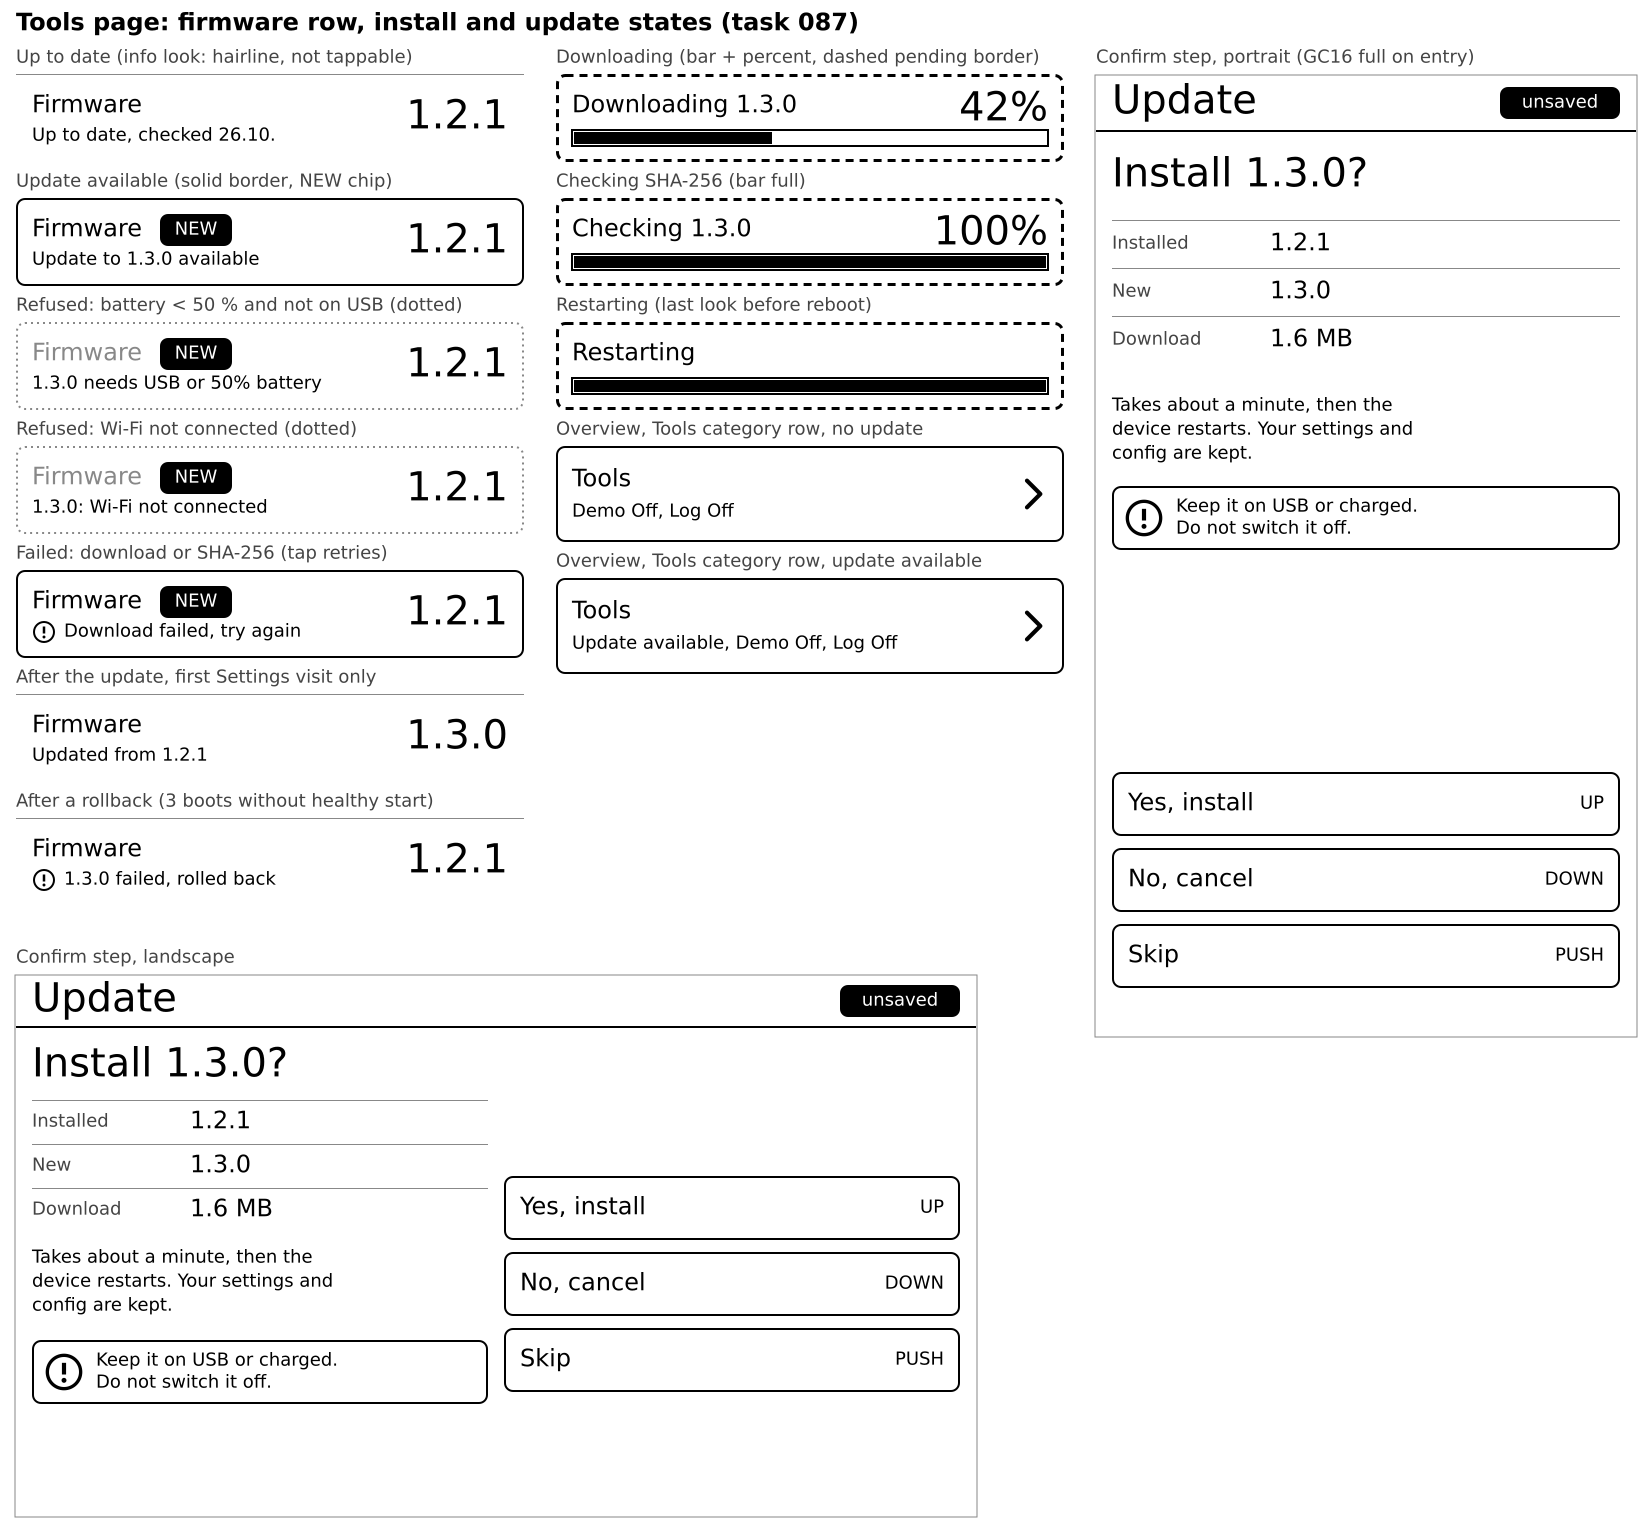
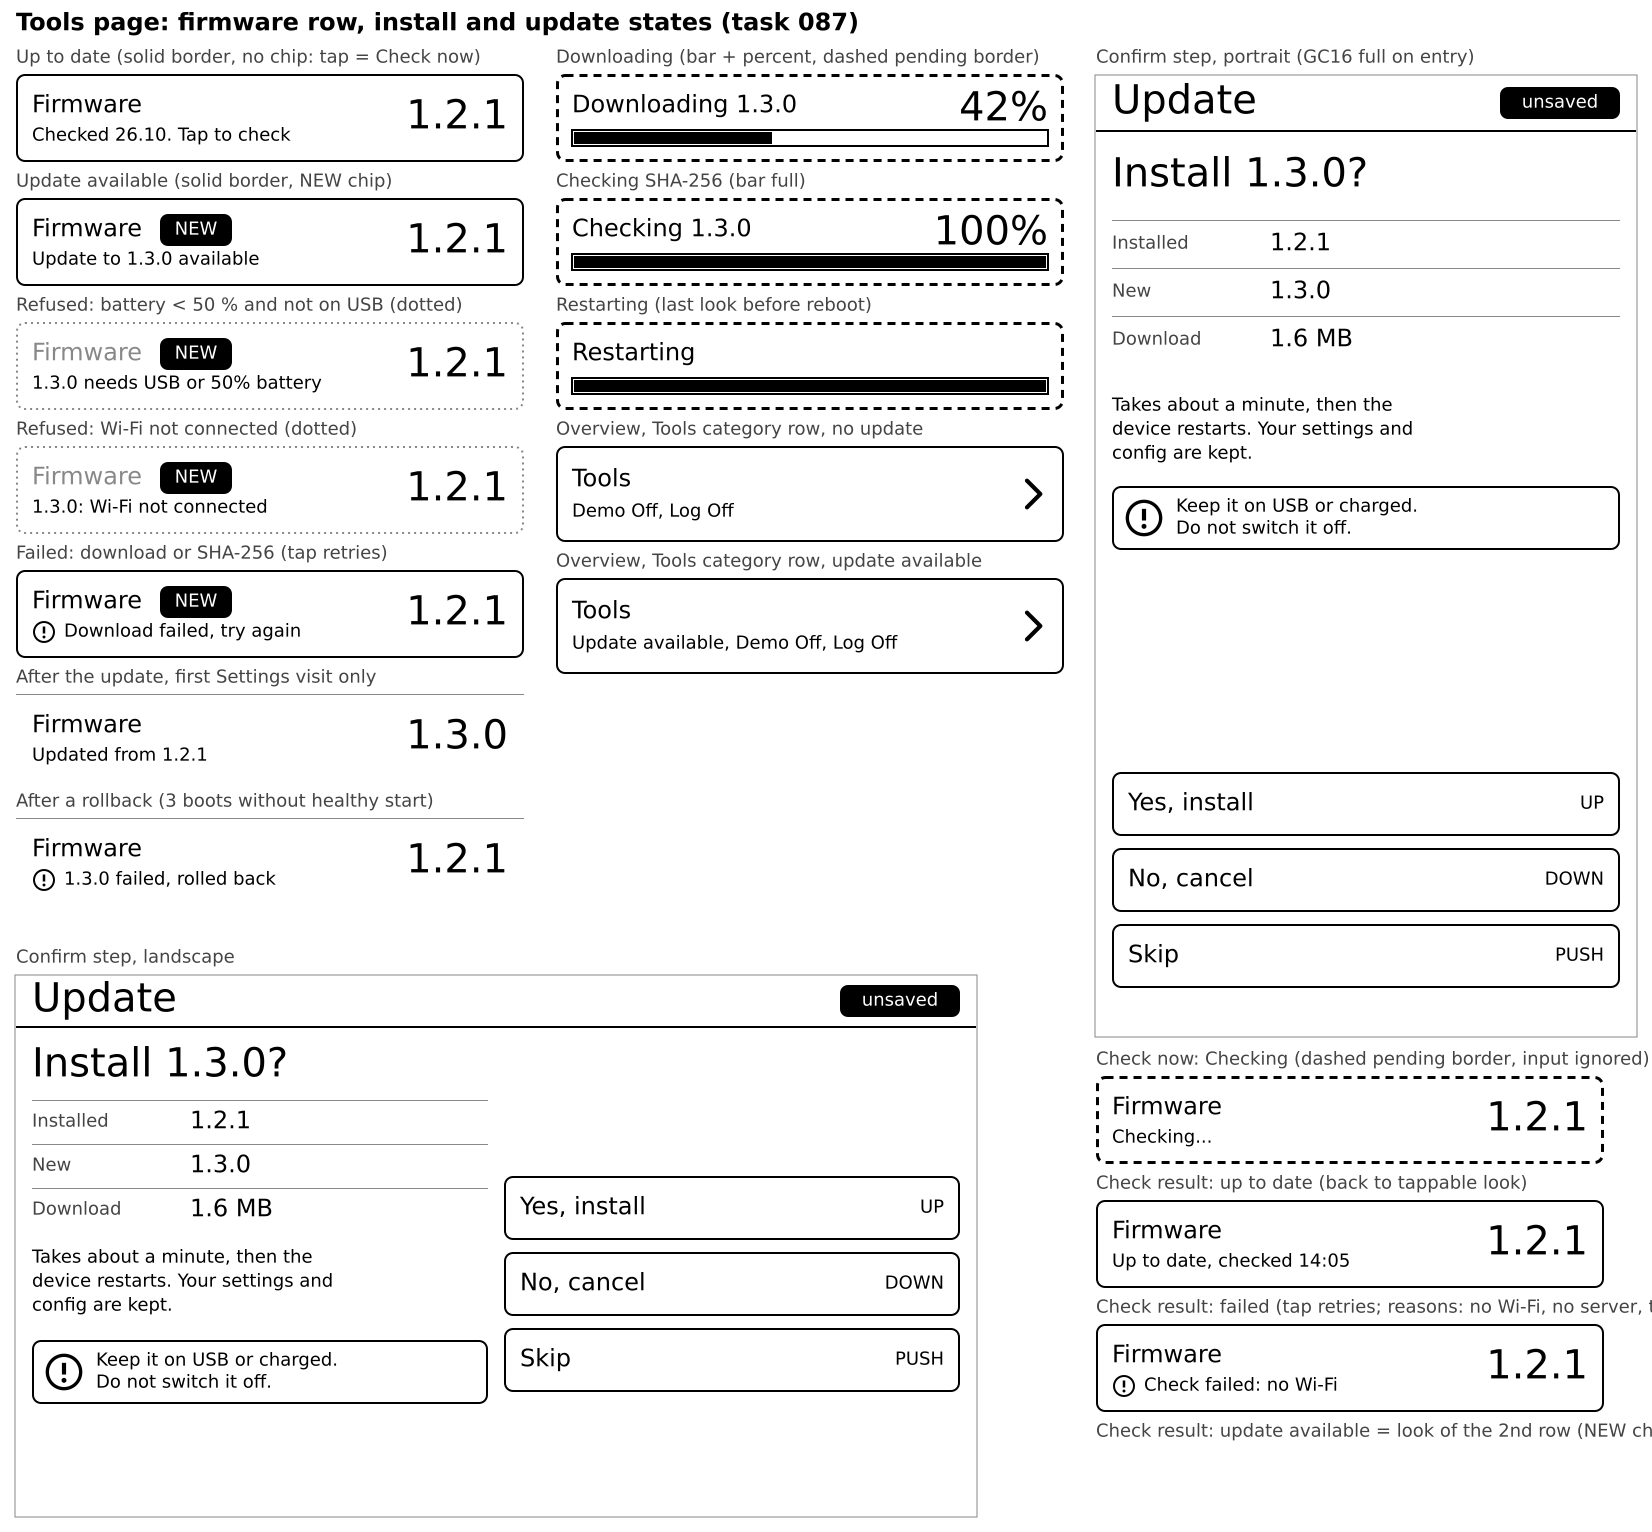
task 087: Check now spec, review fix decisions

Changed region(s): [[0.6483, 0.6749, 1.0, 0.951], [0.0309, 0.0307, 0.2778, 0.092]]

diff --git a/docs/ui/settings.md b/docs/ui/settings.md
@@ -294,7 +294,9 @@ Settings only: nothing on tab screens, no popup. Data: NVS found version / last-
 **Firmware row** (hint-row geometry 3.1, 88 high, not edited, never touches the edit buffer or the `unsaved` chip). Label `Firmware` F24 (x 16, cy 32; OFF grey when refused); value = installed version F40 INK right edge W - 16 cy 44 (F24 if a long version would meet the hint); hint F18 INK x 16 cy 62 (x 48 after an alert icon S 24 at (16, 50)); hint at most about 30 characters. Chip `NEW` row-relative (144, 16, 72, 32), F18 PAPER on INK, radius 8, shown whenever a newer release is known. Row looks (shape carries the state):
 | State | Border | Hint | Tap / focus |
 |-------|--------|------|-------------|
-| Up to date / never checked | none, 1 px OFF top hairline (info look) | `Up to date, checked 26.10.` (same day `14:05`) / `Not checked yet` | ignored, no focus stop |
+| Up to date / never checked | 2 px INK solid, no chip (tappable) | `Checked 26.10. Tap to check` (same day `14:05`) / `Not checked. Tap to check` | starts Check now (below); focus stop |
+| Checking | 3 px dashed INK (pending) | `Checking...` | ignored, no focus stop; other rows and Back also ignore input until the result |
+| Check failed | 2 px INK solid + alert icon | `Check failed: no Wi-Fi` / `no server` / `timeout` | starts Check now again |
 | Update available | 2 px INK solid, chip | `Update to 1.3.0 available` | opens confirm |
 | Refused | 2 px dotted OFF (STYLE 8 unavailable), chip, label OFF | first reason that applies: `1.3.0: leave demo mode first`, `1.3.0: Wi-Fi not connected`, `1.3.0 needs USB or 50% battery` | ignored, no focus stop (the hint is the explanation) |
 | Failed | as Update available + alert icon | `Download failed, try again` / `File damaged, not installed` (SHA-256); old firmware untouched | opens confirm (retry) |
@@ -307,6 +309,8 @@ Overview: Tools row summary gains `Update available, ` first (3.0); no other ove
 **Progress** (the Tools page, nothing else changes; row only). Row border 3 px dashed INK (pending look, STYLE 9). Label F24 cy 32 `Downloading 1.3.0`; value F40 INK right edge, cy 36, `42%`; bar row-relative (16, 56, 476, 16): 2 px INK outline on PAPER, fill INK from x 18, 12 high, width = 472 x percent (shape, no grey). Phases: `Downloading 1.3.0` + percent; `Checking 1.3.0` + `100%` (SHA-256); `Restarting` (no value, bar full) -> reboot. Other rows keep their look but ignore touch and rocker (no Back, no cancel); idle/wake sleep is suspended. Redraw: value + bar region row-relative (16, 14, 476, 58), INK only, `epd_fastest`, one partial per 5 % step (or at most every 2 s); label changes = one partial of the label. No other region is touched.
 Failure: row returns to its Failed look (one partial), then one GC16 clean-up of the page; the running firmware is untouched and input is active again. Success: after `Restarting` the device reboots into the new firmware (normal cold-boot splash path, then the tab screen); the next Settings visit shows `Updated from ...` once.
 
-**States.** Loading: none (row shows the stored result of the weekly check; a check never runs while Settings is open). HA offline: not relevant; Wi-Fi down: Refused look. Demo mode On: Refused (`leave demo mode first`). Unavailable entity: n/a.
+**States.** Loading: the row shows the stored result of the last check; a check runs while Settings is open only after Check now (Checking look). HA offline: not relevant; Wi-Fi down: Refused look. Demo mode On: Refused (`leave demo mode first`). Unavailable entity: n/a.
 
-**OPEN-S12:** after a rollback the failed version should be suppressed (architect). OPEN-S13: no `Check now` row (weekly check only, per task); add one if the user wants it.
+**Check now (OPEN-S13 resolved).** The up-to-date Firmware row is tappable (rocker: focus stop between Debug log and Back, PUSH = tap). Tap: row goes to Checking (partial of the hint, `epd_fastest`), the device fetches the release manifest (needs Wi-Fi; Refused rows for demo/no Wi-Fi stay refused, so Wi-Fi-down shows `Check failed: no Wi-Fi` only if it drops mid-check). Result, one partial of the row: newer release = Update available look (NEW chip, opens confirm); none = `Up to date, checked 14:05`; error = Check failed look. The result is stored like the weekly check. Timeout 20 s. In mockup `settings-tools-states.svg` (w-1, w-21..w-23). Landscape: same row geometry (456 wide).
+
+**OPEN-S12:** after a rollback the failed version should be suppressed (architect).

diff --git a/docs/tasks/087-self-update.md b/docs/tasks/087-self-update.md
@@ -51,3 +51,9 @@ Architecture (architect, 2026-11-02):
 ## Notes
 - Architect 2026-11-02 (OPEN-S12): a version that rolled back is suppressed; offer again only for a newer version.
 - User 2026-11-02 (OPEN-S13): add "Check now": tapping the up-to-date Firmware row runs a manual check (needs Wi-Fi; shows Checking..., then the result in the hint). Spec: ui-designer to add the row state.
+- Review fixes (architect 2026-11-02): (1) count the boot at the very top of setup() and let the crash guard roll
+  back while an update is pending; (2) healthy = setup finished, first frame drawn and 10 s in loop() without a
+  crash — network/HA state doesn't matter (a router outage must not roll back a good firmware); (3) close the HA
+  socket before the check/download and require >= 40 KB largest free block, else skip to the next eligible wake;
+  (4) cap a chunked manifest at 8 KB; (5) doc: trust = GitHub + TLS + manifest SHA-256, no signature;
+  (6) cold-boot check at most once per hour.
